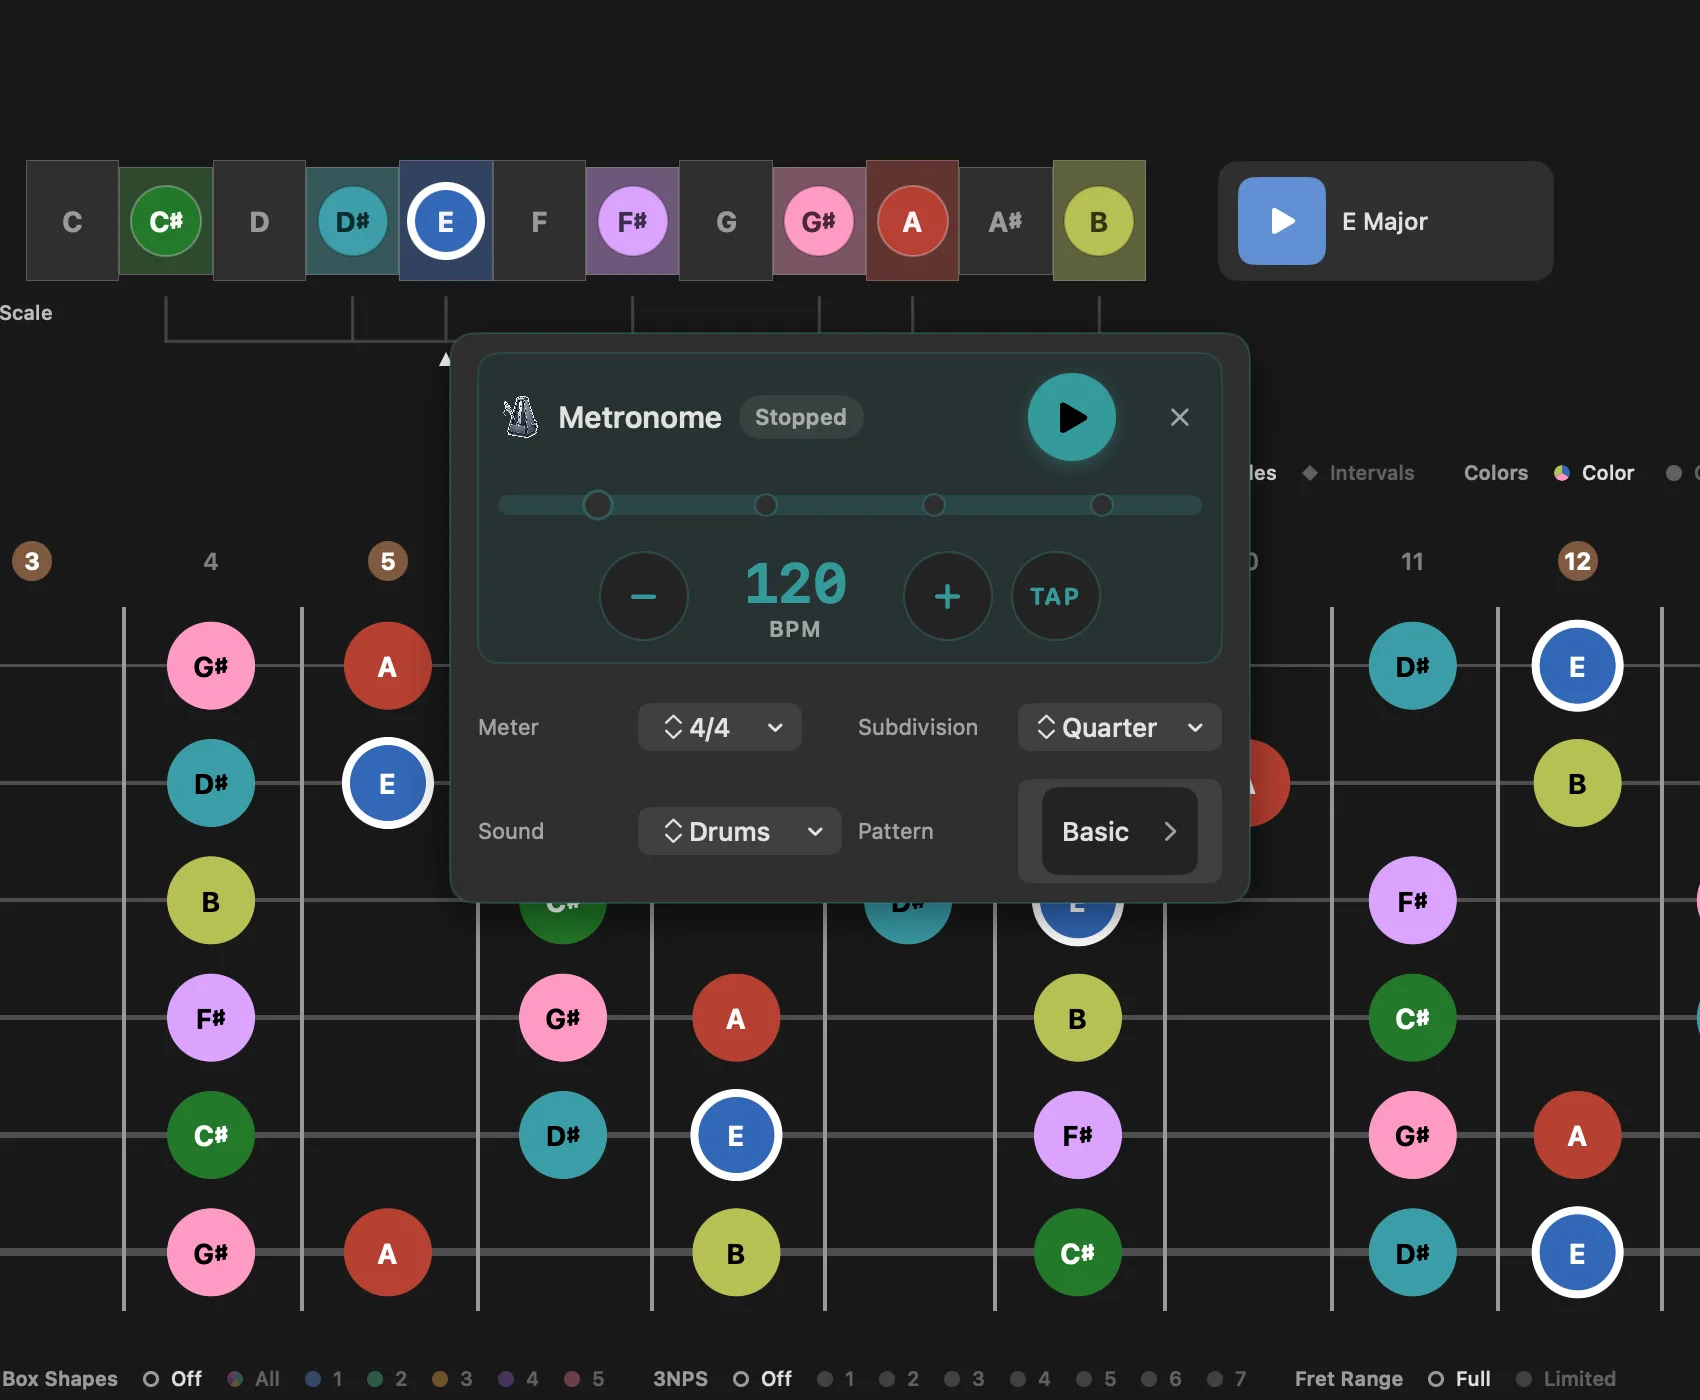
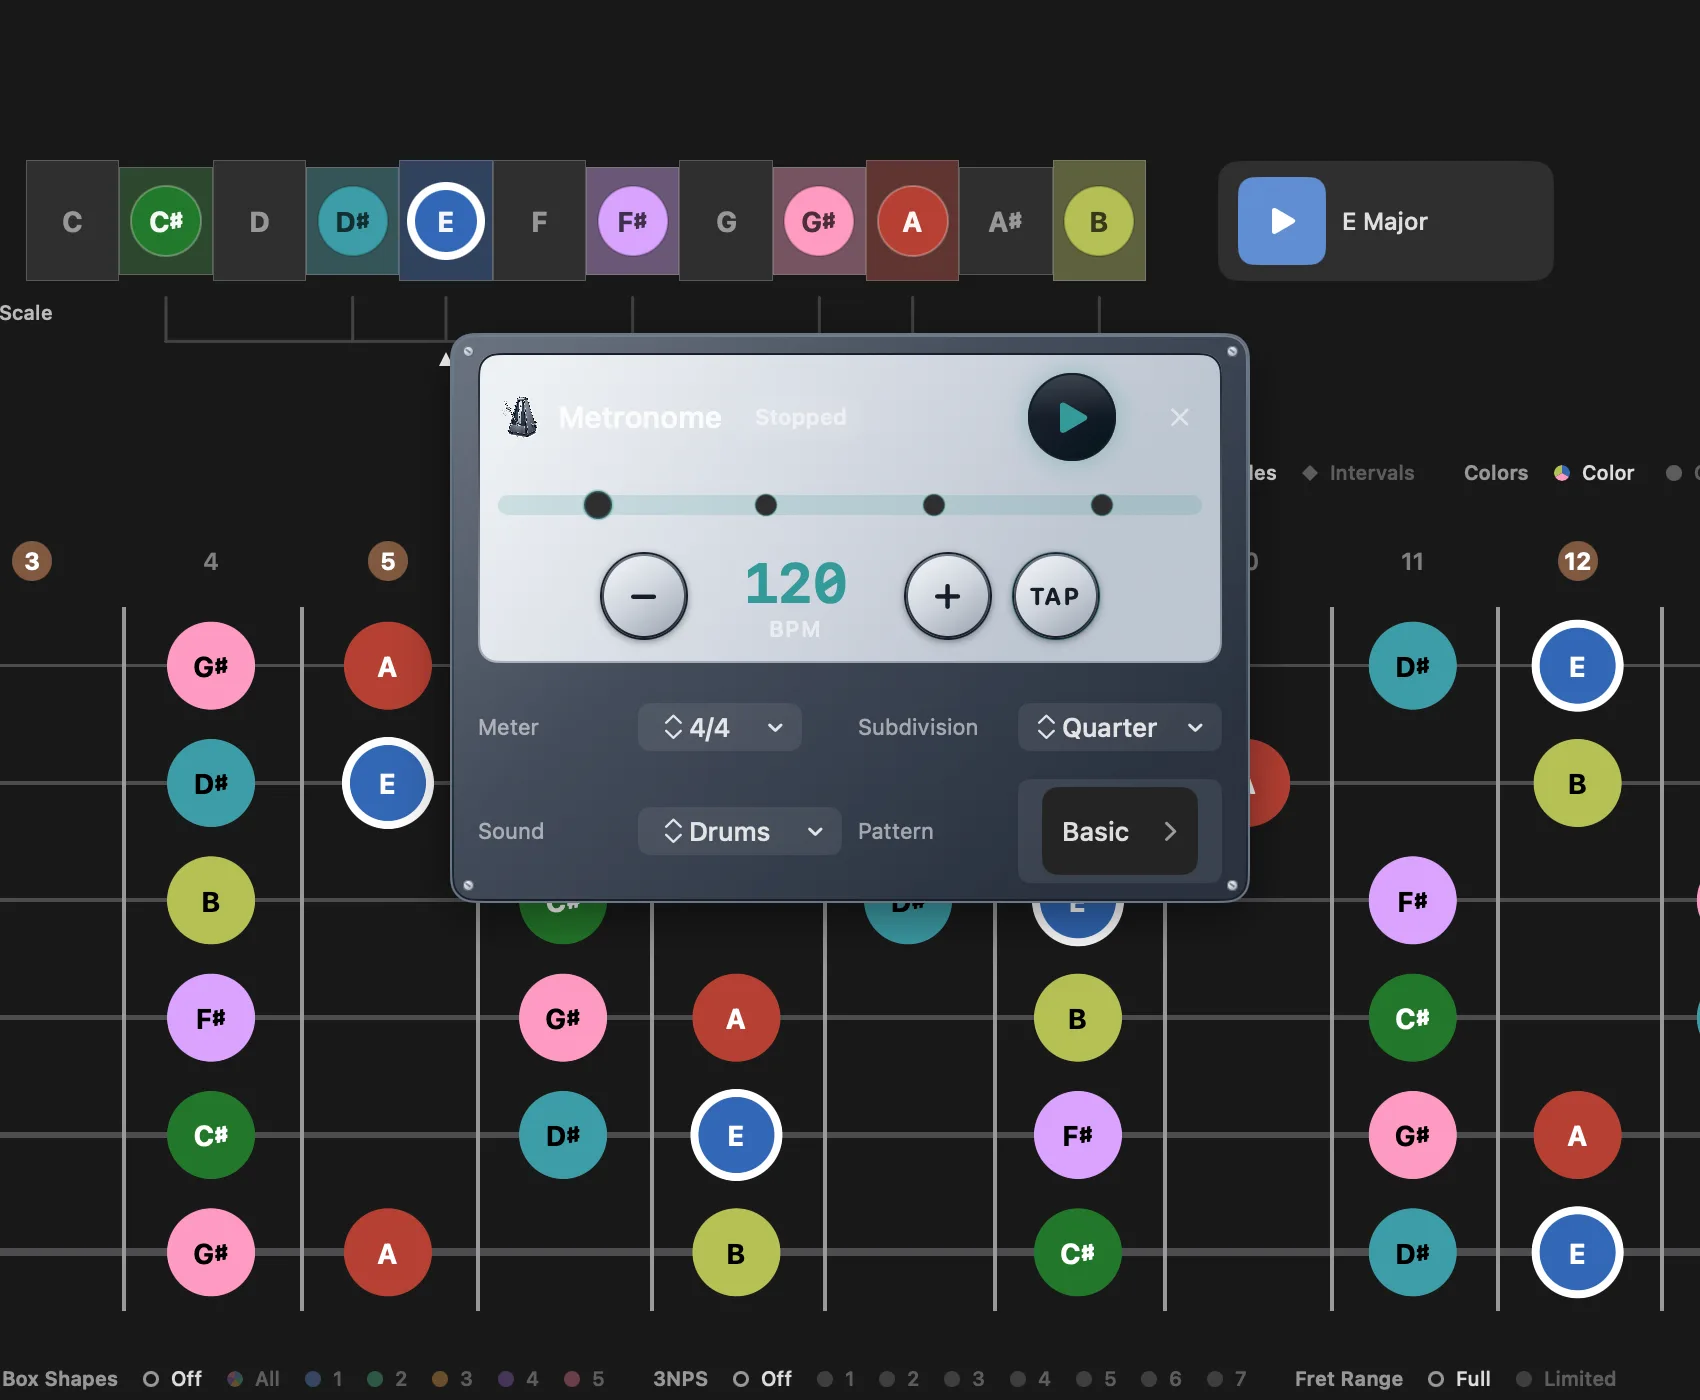
Publish Fretling user guide
Synced from the app repo with scripts/publish-site.sh.

Changed region(s): [[0.2494, 0.215, 0.7482, 0.645], [0.7171, 0.6143, 0.7482, 0.645]]

diff --git a/practice-tools.html b/practice-tools.html
@@ -79,6 +79,8 @@
       <p><strong>The amp and the looper are Mac-only.</strong> They ride the same macOS monitoring engine, which iPadOS does not offer. Everything else on this page works on both platforms.</p>
     </div>
 
+    <p>Every panel is built to look like the hardware it stands in for — a machined faceplate, recessed displays, indicator lamps, knurled fader caps. Two finishes ship: <strong>Machined</strong>, a light panel, and <strong>Studio</strong>, a graphite one. <em>Settings &rsaquo; Fretboard &rsaquo; Appearance &rsaquo; Modules</em> picks between them, and the default follows your theme — light panels on the light canvas, graphite on the dark one.</p>
+
     <nav class="toc" aria-label="Table of contents">
       <h2>On this page</h2>
       <ul>

diff --git a/settings.html b/settings.html
@@ -108,6 +108,7 @@
           <thead><tr><th>Setting</th><th>Options</th><th>Description</th></tr></thead>
           <tbody>
             <tr><td><strong>Theme</strong></td><td>System / Light / Dark</td><td>Follow the device appearance, or pin Fretling to light or dark.</td></tr>
+            <tr><td><strong>Modules</strong></td><td>Auto / Machined / Studio</td><td>How the floating practice tools are drawn. Auto gives the light canvas the Machined panel and the dark canvas the Studio one; pin either to keep it everywhere.</td></tr>
           </tbody>
         </table>
       </div>

diff --git a/markdown/practice-tools.md b/markdown/practice-tools.md
@@ -7,6 +7,12 @@ and usable underneath.
 > **The amp and the looper are Mac-only.** They ride the same macOS monitoring engine, which
 > iPadOS does not offer. Everything else on this page works on both platforms.
 
+Every panel is built to look like the hardware it stands in for — a machined faceplate,
+recessed displays, indicator lamps, knurled fader caps. Two finishes ship: **Machined**, a
+light panel, and **Studio**, a graphite one. `Settings › Fretboard › Appearance › Modules`
+picks between them, and the default follows your theme — light panels on the light canvas,
+graphite on the dark one.
+
 ## Tuner
 
 A chromatic tuner that listens through your microphone or audio interface. It names the note

diff --git a/markdown/settings.md b/markdown/settings.md
@@ -19,6 +19,7 @@ right now are dimmed rather than hidden, so the sidebar does not rearrange itsel
 | Setting | Options | Description |
 |---------|---------|-------------|
 | **Theme** | System / Light / Dark | Follow the device appearance, or pin Fretling to light or dark. |
+| **Modules** | Auto / Machined / Studio | How the floating practice tools are drawn. Auto gives the light canvas the Machined panel and the dark canvas the Studio one; pin either to keep it everywhere. |
 
 ### Borrowed Harmony
 
